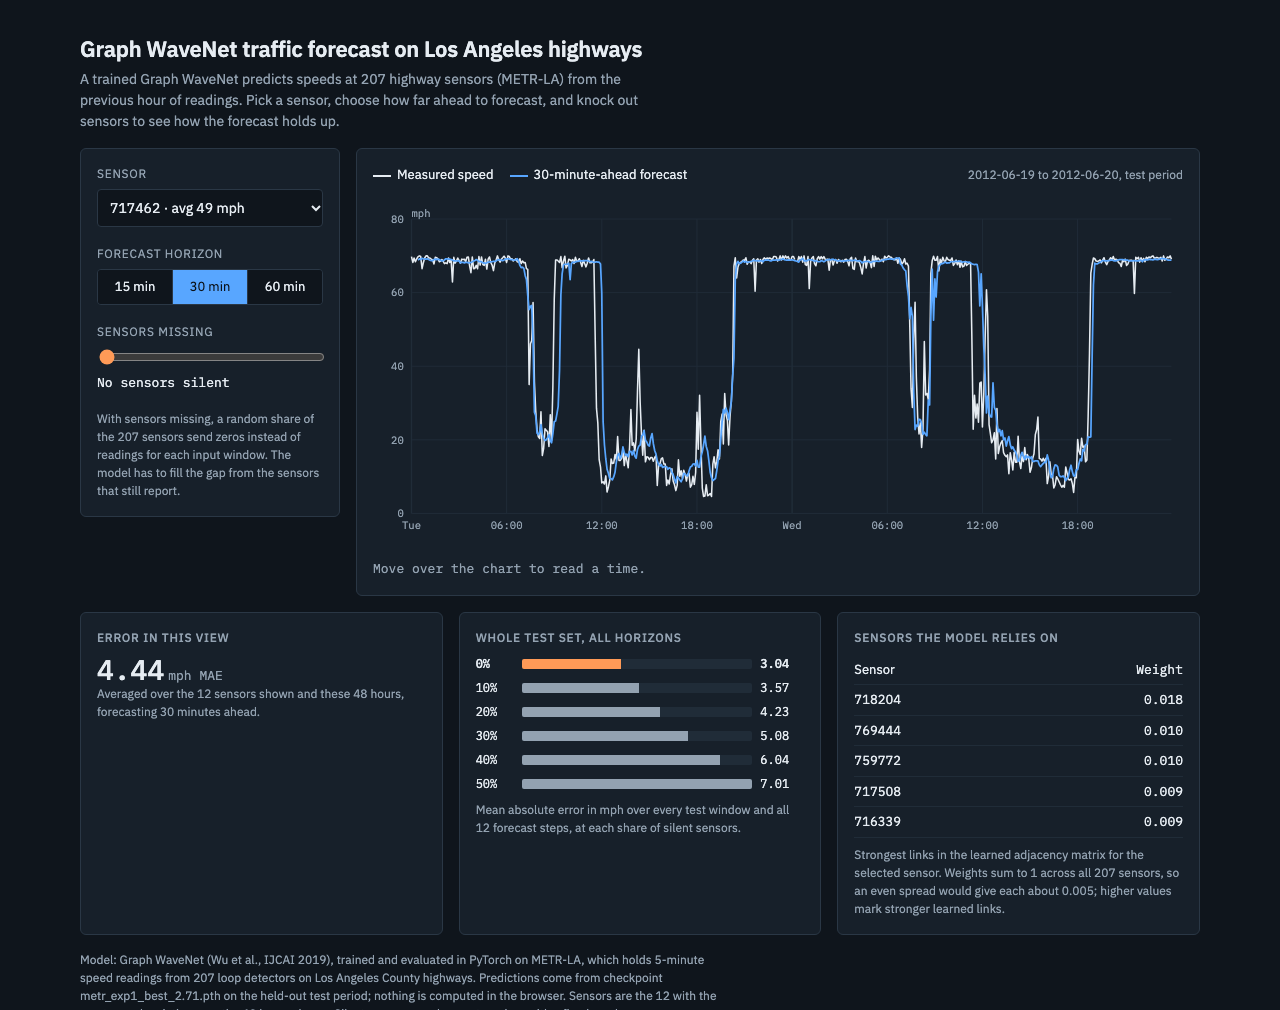
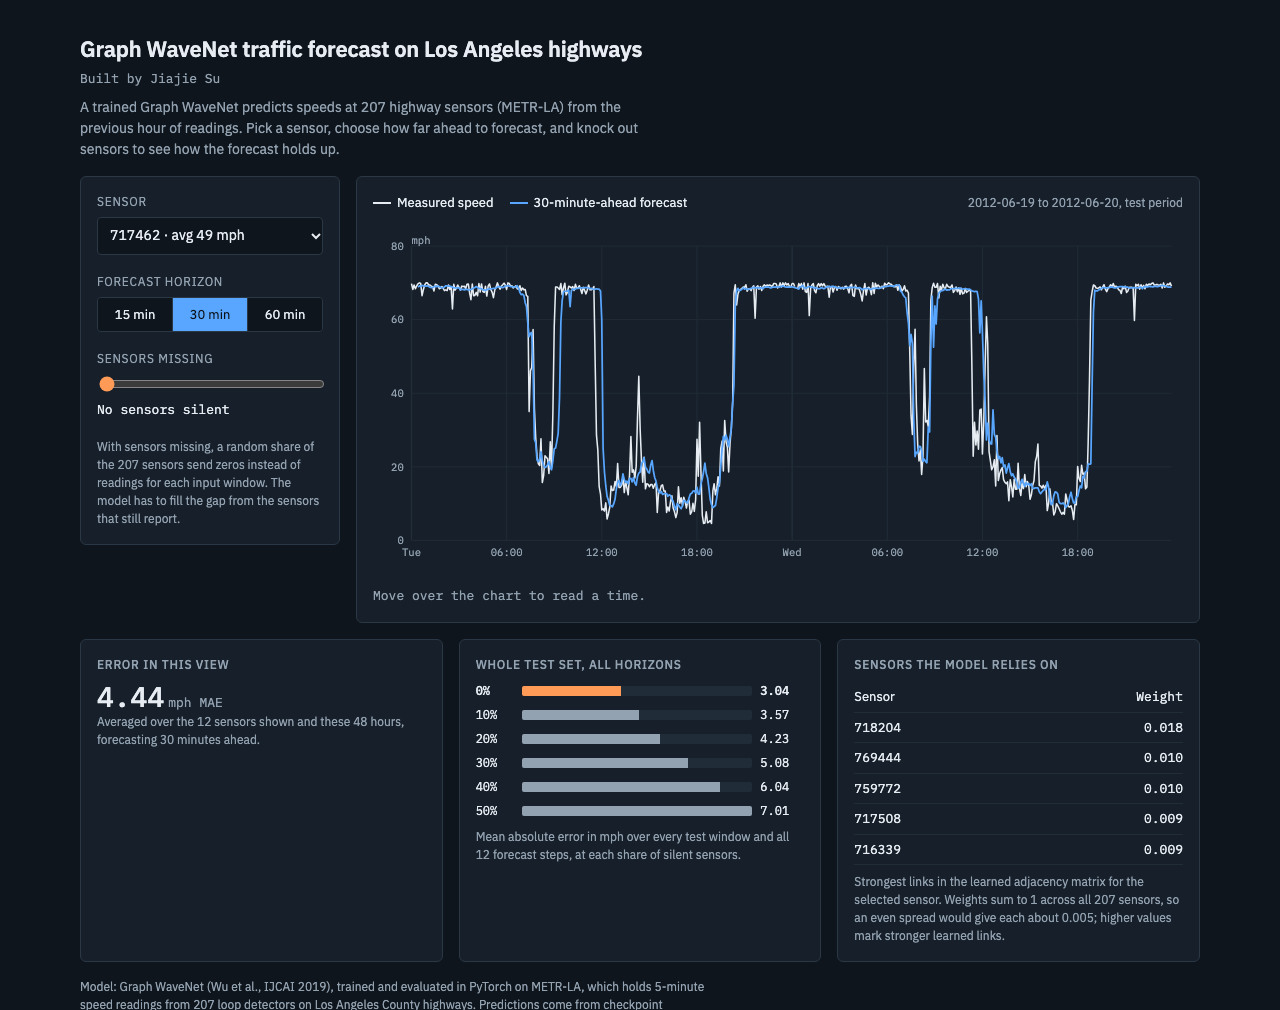
Add author byline to the viewer
Show "Built by Jiajie Su" under the page title and in the footer, and in the README.

diff --git a/docs/index.html b/docs/index.html
@@ -37,7 +37,8 @@ body {
 }
 .wrap { max-width: 1120px; margin: 0 auto; display: flex; flex-direction: column; gap: 16px; }
 h1 { font-size: 22px; font-weight: 600; margin: 0; letter-spacing: -0.01em; text-wrap: balance; }
-.sub { color: var(--muted); max-width: 70ch; margin: 4px 0 0; }
+.by { font-family: var(--font-mono); font-size: 13px; color: var(--muted); margin: 4px 0 0; }
+.sub { color: var(--muted); max-width: 70ch; margin: 8px 0 0; }
 .main { display: grid; grid-template-columns: 260px minmax(0, 1fr); gap: 16px; align-items: start; }
 @media (max-width: 820px) { .main { grid-template-columns: minmax(0, 1fr); } }
 .panel { background: var(--surface); border: 1px solid var(--line); border-radius: 6px; padding: 16px; min-width: 0; }
@@ -85,6 +86,7 @@ footer a { color: var(--pred); }
 <div class="wrap">
   <header>
     <h1>Graph WaveNet traffic forecast on Los Angeles highways</h1>
+    <p class="by">Built by Jiajie Su</p>
     <p class="sub">A trained Graph WaveNet predicts speeds at 207 highway sensors (METR-LA) from the previous hour of readings. Pick a sensor, choose how far ahead to forecast, and knock out sensors to see how the forecast holds up.</p>
   </header>
 
@@ -263,7 +265,8 @@ new MutationObserver(render).observe(document.documentElement, { attributes: tru
 document.getElementById("foot").innerHTML =
   "Model: Graph WaveNet (Wu et al., IJCAI 2019), trained and evaluated in PyTorch on METR-LA, which holds 5-minute speed readings from 207 loop detectors on Los Angeles County highways. " +
   "Predictions come from checkpoint " + DATA.checkpoint + " on the held-out test period; nothing is computed in the browser. " +
-  "Sensors are the 12 with the most speed variation over the 48 hours shown. Silent sensors are drawn at random with a fixed seed.";
+  "Sensors are the 12 with the most speed variation over the 48 hours shown. Silent sensors are drawn at random with a fixed seed. " +
+  "Viewer and data export by Jiajie Su.";
 render();
 </script>
 

diff --git a/src/template.html b/src/template.html
@@ -35,7 +35,8 @@ body {
 }
 .wrap { max-width: 1120px; margin: 0 auto; display: flex; flex-direction: column; gap: 16px; }
 h1 { font-size: 22px; font-weight: 600; margin: 0; letter-spacing: -0.01em; text-wrap: balance; }
-.sub { color: var(--muted); max-width: 70ch; margin: 4px 0 0; }
+.by { font-family: var(--font-mono); font-size: 13px; color: var(--muted); margin: 4px 0 0; }
+.sub { color: var(--muted); max-width: 70ch; margin: 8px 0 0; }
 .main { display: grid; grid-template-columns: 260px minmax(0, 1fr); gap: 16px; align-items: start; }
 @media (max-width: 820px) { .main { grid-template-columns: minmax(0, 1fr); } }
 .panel { background: var(--surface); border: 1px solid var(--line); border-radius: 6px; padding: 16px; min-width: 0; }
@@ -83,6 +84,7 @@ footer a { color: var(--pred); }
 <div class="wrap">
   <header>
     <h1>Graph WaveNet traffic forecast on Los Angeles highways</h1>
+    <p class="by">Built by Jiajie Su</p>
     <p class="sub">A trained Graph WaveNet predicts speeds at 207 highway sensors (METR-LA) from the previous hour of readings. Pick a sensor, choose how far ahead to forecast, and knock out sensors to see how the forecast holds up.</p>
   </header>
 
@@ -261,6 +263,7 @@ new MutationObserver(render).observe(document.documentElement, { attributes: tru
 document.getElementById("foot").innerHTML =
   "Model: Graph WaveNet (Wu et al., IJCAI 2019), trained and evaluated in PyTorch on METR-LA, which holds 5-minute speed readings from 207 loop detectors on Los Angeles County highways. " +
   "Predictions come from checkpoint " + DATA.checkpoint + " on the held-out test period; nothing is computed in the browser. " +
-  "Sensors are the 12 with the most speed variation over the 48 hours shown. Silent sensors are drawn at random with a fixed seed.";
+  "Sensors are the 12 with the most speed variation over the 48 hours shown. Silent sensors are drawn at random with a fixed seed. " +
+  "Viewer and data export by Jiajie Su.";
 render();
 </script>

diff --git a/README.md b/README.md
@@ -1,7 +1,7 @@
 # Graph WaveNet traffic forecast viewer
 
 An interactive page that shows what a trained [Graph WaveNet](https://arxiv.org/abs/1906.00121) predicts for highway
-traffic in Los Angeles, next to the speeds that were actually measured.
+traffic in Los Angeles, next to the speeds that were actually measured. Built by Jiajie Su.
 
 ![Viewer screenshot](docs/screenshot.png)
 
